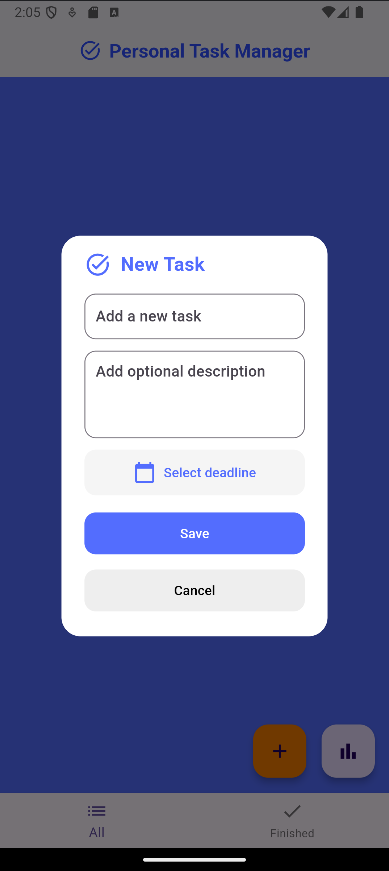
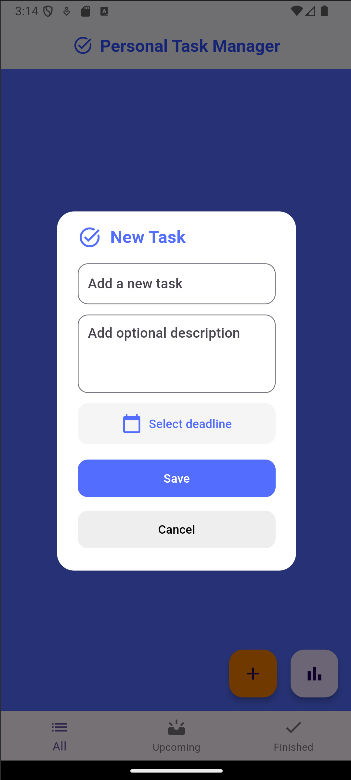
Upcoming

diff --git a/lib/pages/home_page.dart b/lib/pages/home_page.dart
@@ -31,6 +31,7 @@ class _HomePageState extends State<HomePage> {
 
     super.initState();
   }
+
   int selectedIndex = 0;
   final title_controller = TextEditingController();
   final description_controller = TextEditingController();
@@ -226,6 +227,10 @@ loadCurrentData(selectedIndex);
             label: "All",
           ),
           BottomNavigationBarItem(
+            icon: Icon(Icons.upcoming),
+            label: "Upcoming",
+          ),
+          BottomNavigationBarItem(
             icon: Icon(Icons.done),
             label: "Finished",
           ),
@@ -248,7 +253,10 @@ loadCurrentData(selectedIndex);
         {
       taskList = db.loadData();
     }
-    else if (selectedIndex == 1){ //Finished Tab
+    else if (selectedIndex == 1){ //unFinished Tab
+      taskList = db.loadDataForUnDoneTasks();
+    }
+    else if (selectedIndex == 2){ //Finished Tab
       taskList = db.loadDataForDoneTasks();
     }
   }

diff --git a/lib/data/database.dart b/lib/data/database.dart
@@ -41,6 +41,7 @@ class ToDoDataBase {
   
   List<ToDo> loadDataForDoneTasks(){
     List<ToDo> taskList = box.values.toList();
+    taskList.sort((a, b) => a.deadline.compareTo(b.deadline));
 
     List<ToDo> finishedTasks = [];
     taskList.forEach((task) {
@@ -51,7 +52,20 @@ class ToDoDataBase {
     
     return finishedTasks;
   }
-  
+
+  List<ToDo> loadDataForUnDoneTasks(){
+    List<ToDo> taskList = box.values.toList();
+    taskList.sort((a, b) => a.deadline.compareTo(b.deadline));
+
+    List<ToDo> unDoneTasks = [];
+    taskList.forEach((task) {
+      if (!task.isDone) {
+        unDoneTasks.add(task);
+      }
+    });
+
+    return unDoneTasks;
+  }
 
   Future<void> addOrUpdate(int key, ToDo todo) async {
     await box.put(key, todo);
